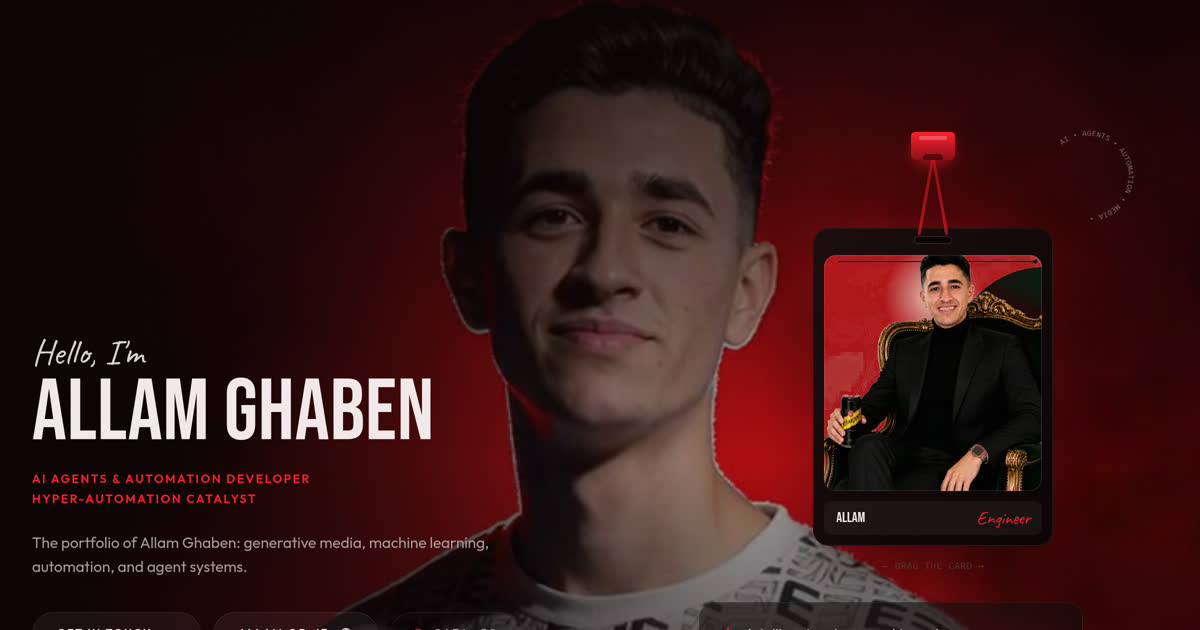
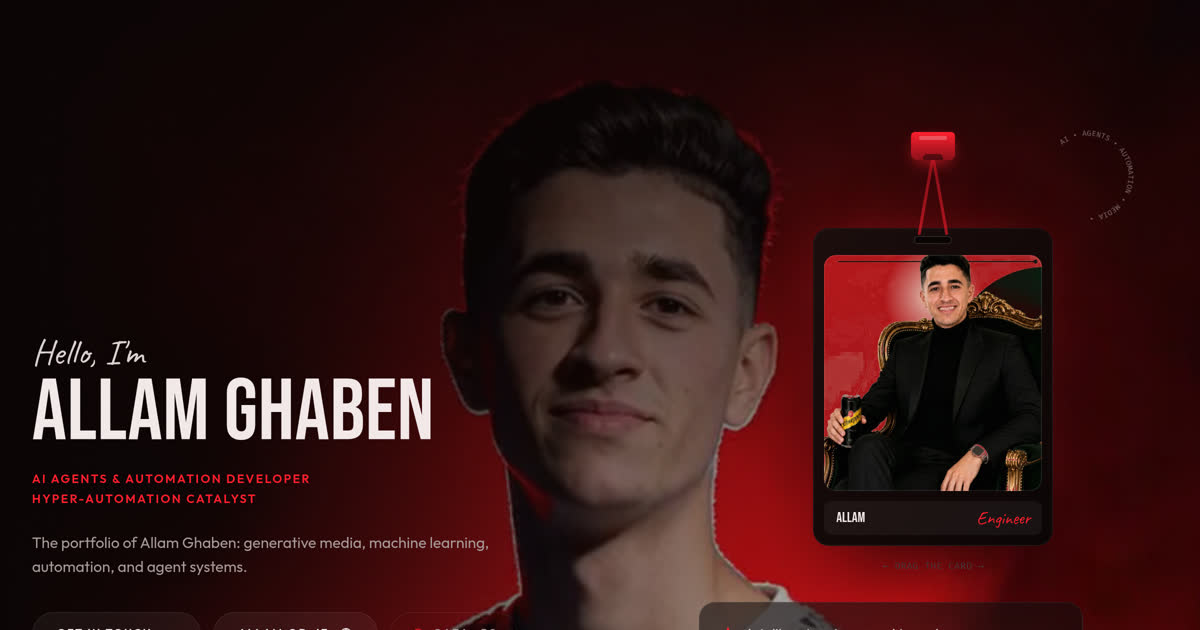
Run the hero clip behind What I Do so the figure continues
The backdrop was scoped to the hero, so the figure was cut off at the section
boundary. Hero and Services now share one container with the clip behind both,
anchored to the top: his head sits in the hero and the rest of his body
carries on down behind the card grid.

- HeroBackdrop moves out of Hero and into a wrapper in page.tsx
- Clip anchors to `object-top` instead of a fixed vertical offset, so the
  framing follows the container rather than the viewport
- The vertical gradient stays light through the hero and deepens across the
  card grid, then goes solid at the bottom so the handoff to Reels is clean

The cards needed the same treatment the glass tiles got: `.card` was
translucent enough that its text lost contrast against his lit t-shirt, so it
now carries a dark base under the sheen.

OG image regenerated, since the hero's anchoring changed.

Verified at 1280px and 390px: no horizontal overflow, no page errors.

Claude-Session: https://claude.ai/code/session_011Hm43Fk7vKVAqGhMPXy5dZ

Changed region(s): [[0.2467, 0.1206, 0.8325, 1.0], [0.6167, 0.0905, 0.6475, 0.1206]]

diff --git a/components/HeroBackdrop.tsx b/components/HeroBackdrop.tsx
@@ -47,18 +47,26 @@ export default function HeroBackdrop() {
         loop
         playsInline
         preload="metadata"
-        className="h-full w-full object-cover object-[64%_15%] opacity-80 sm:object-[70%_12%] lg:opacity-95"
+        className="h-full w-full object-cover object-[64%_top] opacity-80 sm:object-[70%_top] lg:opacity-95"
       >
         <source src="/assets/hero-loop.webm" type="video/webm" />
         <source src="/assets/hero-loop.mp4" type="video/mp4" />
       </video>
 
-      {/* Legibility stack. The subject sits right of centre, so the darkening
-          is weighted to the left where the copy is and released on the right
-          so he stays clearly visible. */}
+      {/*
+        Legibility stack, tuned for a container that spans the hero and the
+        What I Do grid. Anchoring the clip to the top lets his head sit in the
+        hero and the rest of his body carry on down behind the cards.
+
+        Horizontal: weighted left, where the hero copy sits, and released on
+        the right so he stays visible.
+        Vertical: light through the hero, deepening across the card grid so
+        the cards keep their contrast, then solid at the very bottom so the
+        section hands off cleanly to the next.
+      */}
       <div className="absolute inset-0 bg-gradient-to-r from-void via-void/60 to-transparent lg:via-void/40" />
-      <div className="absolute inset-0 bg-gradient-to-b from-void/70 via-transparent to-void" />
-      <div className="absolute inset-0 bg-[radial-gradient(ellipse_54%_56%_at_12%_50%,rgba(10,4,4,0.9),transparent_70%)]" />
+      <div className="absolute inset-0 bg-gradient-to-b from-void/70 via-transparent via-45% to-void" />
+      <div className="absolute inset-0 bg-[radial-gradient(ellipse_54%_38%_at_12%_34%,rgba(10,4,4,0.9),transparent_70%)]" />
     </div>
   );
 }

diff --git a/components/Hero.tsx b/components/Hero.tsx
@@ -3,7 +3,6 @@
 import { motion, useReducedMotion } from 'framer-motion';
 import { facts, profile } from '@/lib/data';
 import LanyardCard from './LanyardCard';
-import HeroBackdrop from './HeroBackdrop';
 import { ArrowIcon, GlobeIcon, PinIcon, SparkIcon } from './Icons';
 
 const ease = [0.16, 1, 0.3, 1] as const;
@@ -21,8 +20,7 @@ export default function Hero() {
         };
 
   return (
-    <section id="top" className="relative z-10 overflow-hidden px-5 pb-16 pt-28 sm:px-8 sm:pt-32">
-      <HeroBackdrop />
+    <section id="top" className="relative z-10 px-5 pb-16 pt-28 sm:px-8 sm:pt-32">
       <div className="relative mx-auto grid w-full max-w-6xl items-center gap-12 lg:grid-cols-[1.15fr_0.85fr] lg:gap-8">
         {/* ---------------- Left: identity ---------------- */}
         <div className="relative">

diff --git a/app/page.tsx b/app/page.tsx
@@ -1,5 +1,6 @@
 import Nav from '@/components/Nav';
 import Hero from '@/components/Hero';
+import HeroBackdrop from '@/components/HeroBackdrop';
 import Services from '@/components/Services';
 import Gallery from '@/components/Gallery';
 import Instagram from '@/components/Instagram';
@@ -11,8 +12,13 @@ export default function Home() {
     <>
       <Nav />
       <main>
-        <Hero />
-        <Services />
+        {/* One backdrop behind both, so the figure runs from the hero
+            straight down through the What I Do grid. */}
+        <div className="relative overflow-hidden">
+          <HeroBackdrop />
+          <Hero />
+          <Services />
+        </div>
         <Gallery />
         <Instagram />
       </main>

diff --git a/app/globals.css b/app/globals.css
@@ -127,7 +127,11 @@ body::after {
   position: relative;
   overflow: hidden;
   border-radius: 1rem;
-  background: linear-gradient(155deg, rgba(255, 255, 255, 0.04), rgba(255, 255, 255, 0.008));
+  /* Dark base under the sheen. The What I Do cards sit over the hero clip,
+     and a purely translucent panel loses its text against his lit t-shirt. */
+  background:
+    linear-gradient(155deg, rgba(255, 255, 255, 0.045), rgba(255, 255, 255, 0.01)),
+    rgba(10, 4, 4, 0.68);
   border: 1px solid var(--shell-border);
   transition:
     transform 0.5s var(--ease-silk),
